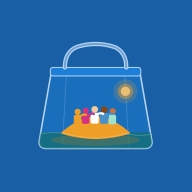
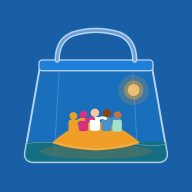
feat: otimização de velocidade Fase 2 (SW v6, splash, ícones maskable, iOS startup)
Fase 2 do OPTIMIZATION_MASTER_PLAN_V2.md (T6-T9): service worker v6 com race
rede-vs-timeout (500ms) + Navigation Preload + seed do documento raiz para
eliminar a tela branca de abertura do PWA; splash CSS recalibrado (600ms para
350ms); ícones reais regenerados com variante maskable (Android); 8 startup
images para iOS (antes abria em branco). Regras de privacidade e o ISR do
servidor permanecem intocados (RSC e rotas privadas seguem network-first).

diff --git a/frontend/public/sw.js b/frontend/public/sw.js
@@ -1,10 +1,21 @@
 // Service Worker — Mercado Ilha
-// Reescrito en la Fase 4 del plano de otimização (T12 + T13).
-// Estrategias explícitas por tipo de request, caches separados con tope, y página offline.
-// Reglas irrompibles: NUNCA interceptar Supabase (auth + datos), NUNCA cachear rutas
-// privadas (/publish, /profile, /admin) ni /api/auth. Subir CACHE_VERSION en cada cambio.
+// v5 (Fase 4 V1): estrategias por tipo de request, caches separados con tope, offline.html.
+// v6 (Fase 2 V2 · T6): la NAVEGACIÓN deja de ser network-first puro y pasa a
+//   "race red-vs-timeout": si hay copia cacheada del documento, la red fresca compite
+//   contra un timeout corto (NAV_TIMEOUT_MS). Si la red no llegó a tiempo, se sirve el
+//   caché AL INSTANTE y la red sigue en segundo plano refrescando el caché para la
+//   próxima apertura. En conexión buena gana la red (contenido fresco, sin cambios); en
+//   4G lenta la app abre al toque con la última versión vista — comportamiento
+//   Instagram/Mercado Livre. Con ISR de 60s en el server, tolerar unos segundos de stale
+//   al abrir es parte del diseño; la apertura siguiente ya trae el contenido refrescado.
+//   Además: Navigation Preload (la request parte en paralelo al boot del SW) + seed del
+//   documento '/' en install/activate (la 1ª apertura standalone ya tiene algo que pintar).
+// Reglas irrompibles (intactas): NUNCA interceptar Supabase (auth + datos), NUNCA cachear
+//   rutas privadas (/publish, /profile, /admin) ni /api/auth; los payloads RSC siguen
+//   network-first (el race aplica SOLO a documentos HTML de apertura, no a la navegación
+//   client-side, para respetar el ISR de 60s). Subir CACHE_VERSION en cada cambio.
 
-const CACHE_VERSION = 'v5';
+const CACHE_VERSION = 'v6';
 const STATIC_CACHE = `mi-static-${CACHE_VERSION}`; // shell, íconos, /_next/static (inmutable)
 const PAGES_CACHE = `mi-pages-${CACHE_VERSION}`;   // navegaciones HTML + payloads RSC
 const IMAGES_CACHE = `mi-images-${CACHE_VERSION}`; // /_next/image + fotos R2
@@ -17,6 +28,11 @@ const PAGES_LIMIT = 30;
 const IMAGES_LIMIT = 60;
 const DATA_LIMIT = 16;
 
+// Cuánto espera una navegación CON caché a que la red fresca gane antes de servir el
+// caché. Corto para que en 4G lenta abra al instante; suficiente para que en buena
+// conexión gane la red casi siempre y se sirva contenido fresco.
+const NAV_TIMEOUT_MS = 500;
+
 // Precache del shell offline: la página offline + marca. Best-effort: si un asset falla,
 // no aborta la instalación (evita que un 404 puntual deje al SW sin instalar).
 const PRECACHE = [
@@ -25,30 +41,52 @@ const PRECACHE = [
   '/logo.svg',
   '/icon-192.png',
   '/icon-512.png',
+  '/icon-maskable-192.png',
+  '/icon-maskable-512.png',
   '/apple-touch-icon.png',
 ];
 
 self.addEventListener('install', (e) => {
   e.waitUntil(
-    caches.open(STATIC_CACHE).then(async (cache) => {
+    (async () => {
+      const staticCache = await caches.open(STATIC_CACHE);
       await Promise.all(
-        PRECACHE.map((url) => cache.add(url).catch(() => {/* asset opcional ausente */}))
+        PRECACHE.map((url) => staticCache.add(url).catch(() => {/* asset opcional ausente */}))
       );
+      // Seed del documento raíz en PAGES_CACHE: la PRIMERA apertura standalone tras
+      // instalar el PWA ya tiene algo que pintar al instante (best-effort: si falla, la
+      // navegación cae al comportamiento sin caché, que espera la red).
+      const pagesCache = await caches.open(PAGES_CACHE);
+      await pagesCache.add('/').catch(() => {/* sin conexión al instalar: se sembrará al 1er visit */});
       await self.skipWaiting();
-    })
+    })()
   );
 });
 
 self.addEventListener('activate', (e) => {
   e.waitUntil(
-    caches
-      .keys()
-      .then((keys) =>
-        Promise.all(
-          keys.filter((k) => !CURRENT_CACHES.includes(k)).map((k) => caches.delete(k))
-        )
-      )
-      .then(() => self.clients.claim())
+    (async () => {
+      // Navigation Preload: al abrir, la request de navegación parte en paralelo al boot
+      // del SW → la red fresca llega antes y tiene más chances de ganar el race.
+      if (self.registration.navigationPreload) {
+        try { await self.registration.navigationPreload.enable(); } catch (err) {/* no soportado */}
+      }
+      // Borrar caches de versiones anteriores (v5 → v6 limpia mi-*-v5).
+      const keys = await caches.keys();
+      await Promise.all(
+        keys.filter((k) => !CURRENT_CACHES.includes(k)).map((k) => caches.delete(k))
+      );
+      // Refrescar el seed de '/' (el precacheado en install puede quedar viejo tras un
+      // update del SW). Best-effort: si no hay red, queda el seed de install.
+      try {
+        const res = await fetch('/');
+        if (res && res.ok) {
+          const cache = await caches.open(PAGES_CACHE);
+          await cache.put('/', res.clone());
+        }
+      } catch (err) {/* sin conexión: se refresca en la próxima apertura */}
+      await self.clients.claim();
+    })()
   );
 });
 
@@ -133,30 +171,76 @@ async function networkFirst(request, cacheName, limit, event) {
   }
 }
 
-// Navegación HTML: network-first con fallback a la página cacheada y, en última instancia,
-// a la página offline de marca.
-async function handleNavigation(request, isPrivate, event) {
-  try {
-    const res = await fetch(request);
-    if (res && res.ok && !isPrivate) {
-      const clone = res.clone();
-      event.waitUntil(
+// Red para una navegación: usa el navigation preload si está disponible (request ya
+// disparada en paralelo al boot del SW), sino un fetch normal. Al llegar una respuesta ok
+// refresca PAGES_CACHE al vuelo (fire-and-forget, mismo patrón que staleWhileRevalidate).
+// Devuelve la Response de red (o rechaza si la red falla).
+function fetchNavigation(request, event) {
+  return Promise.resolve(event.preloadResponse)
+    .then((preload) => preload || fetch(request))
+    .then((res) => {
+      if (res && res.ok) {
         caches.open(PAGES_CACHE).then((cache) =>
-          cache.put(request, clone).then(() => trimCache(PAGES_CACHE, PAGES_LIMIT))
-        )
-      );
+          cache.put(request, res.clone()).then(() => trimCache(PAGES_CACHE, PAGES_LIMIT))
+        );
+      }
+      return res;
+    });
+}
+
+// Navegación HTML (apertura de documento / refresh / deep link).
+//  - Rutas privadas: SIEMPRE red, NUNCA caché (regla irrompible). Fallback offline.
+//  - Sin caché del documento: se espera la red; si falla → offline.
+//  - Con caché: la red fresca compite contra un timeout corto. Si la red no llegó a
+//    tiempo (o falló), se sirve el caché al instante y la red sigue refrescándolo.
+async function handleNavigation(request, isPrivate, event) {
+  if (isPrivate) {
+    try {
+      const preload = await event.preloadResponse;
+      return preload || (await fetch(request));
+    } catch (err) {
+      const offline = await caches.match('/offline.html');
+      if (offline) return offline;
+      throw err;
     }
-    return res;
-  } catch (err) {
-    // Rutas privadas nunca se sirven desde caché: solo offline.
-    if (!isPrivate) {
-      const cached = await caches.match(request);
-      if (cached) return cached;
-    }
-    const offline = await caches.match('/offline.html');
-    if (offline) return offline;
-    throw err;
   }
+
+  const pagesCache = await caches.open(PAGES_CACHE);
+  const cached = await pagesCache.match(request);
+  const network = fetchNavigation(request, event);
+
+  // Sin caché: comportamiento clásico — esperar la red; si falla, página offline.
+  if (!cached) {
+    try {
+      const res = await network;
+      event.waitUntil(network.catch(() => {})); // dejar terminar la escritura del caché
+      return res;
+    } catch (err) {
+      const offline = await caches.match('/offline.html');
+      if (offline) return offline;
+      throw err;
+    }
+  }
+
+  // Con caché: race red-vs-timeout. `outcome` NUNCA rechaza (así no quedan rechazos
+  // flotando cuando gana el timeout): { res } si la red trajo algo ok, {} si falló/no-ok.
+  const outcome = network.then(
+    (res) => (res && res.ok ? { res } : {}),
+    () => ({})
+  );
+  let timeoutId;
+  const timeout = new Promise((resolve) => {
+    timeoutId = setTimeout(() => resolve('timeout'), NAV_TIMEOUT_MS);
+  });
+
+  const winner = await Promise.race([outcome, timeout]);
+  clearTimeout(timeoutId);
+  // Sea quien sea el ganador, la red sigue viva para refrescar el caché de la próxima vez.
+  event.waitUntil(outcome);
+
+  if (winner === 'timeout') return cached; // red lenta → caché al instante
+  if (winner.res) return winner.res;        // red fresca ganó → contenido fresco
+  return cached;                            // red falló/no-ok antes del timeout → caché
 }
 
 self.addEventListener('fetch', (e) => {

diff --git a/frontend/app/layout.tsx b/frontend/app/layout.tsx
@@ -57,6 +57,18 @@ export default function RootLayout({ children }: { children: React.ReactNode }) 
         <link rel="dns-prefetch" href="https://ywminblmiwjsxbntszbc.supabase.co" />
         <link rel="preconnect" href="https://pub-d6279f6f1d8b4352953818cd9e119e87.r2.dev" crossOrigin="" />
         <link rel="dns-prefetch" href="https://pub-d6279f6f1d8b4352953818cd9e119e87.r2.dev" />
+        {/* Startup images de iOS (T8 V2): iOS no usa background_color del manifest; sin
+            estos el PWA abre en blanco. Tags estáticos (cero costo de runtime); si un
+            tamaño no matchea, iOS cae al blanco actual (nunca peor). Android/desktop los
+            ignoran. PNGs generados con sharp: logo.svg centrado sobre #185FA5. */}
+        <link rel="apple-touch-startup-image" href="/splash/apple-splash-750-1334.png" media="(device-width: 375px) and (device-height: 667px) and (-webkit-device-pixel-ratio: 2) and (orientation: portrait)" />
+        <link rel="apple-touch-startup-image" href="/splash/apple-splash-1125-2436.png" media="(device-width: 375px) and (device-height: 812px) and (-webkit-device-pixel-ratio: 3) and (orientation: portrait)" />
+        <link rel="apple-touch-startup-image" href="/splash/apple-splash-828-1792.png" media="(device-width: 414px) and (device-height: 896px) and (-webkit-device-pixel-ratio: 2) and (orientation: portrait)" />
+        <link rel="apple-touch-startup-image" href="/splash/apple-splash-1242-2688.png" media="(device-width: 414px) and (device-height: 896px) and (-webkit-device-pixel-ratio: 3) and (orientation: portrait)" />
+        <link rel="apple-touch-startup-image" href="/splash/apple-splash-1170-2532.png" media="(device-width: 390px) and (device-height: 844px) and (-webkit-device-pixel-ratio: 3) and (orientation: portrait)" />
+        <link rel="apple-touch-startup-image" href="/splash/apple-splash-1284-2778.png" media="(device-width: 428px) and (device-height: 926px) and (-webkit-device-pixel-ratio: 3) and (orientation: portrait)" />
+        <link rel="apple-touch-startup-image" href="/splash/apple-splash-1179-2556.png" media="(device-width: 393px) and (device-height: 852px) and (-webkit-device-pixel-ratio: 3) and (orientation: portrait)" />
+        <link rel="apple-touch-startup-image" href="/splash/apple-splash-1290-2796.png" media="(device-width: 430px) and (device-height: 932px) and (-webkit-device-pixel-ratio: 3) and (orientation: portrait)" />
       </head>
       <body>
         <SplashScreen />

diff --git a/frontend/components/SplashScreen.tsx b/frontend/components/SplashScreen.tsx
@@ -128,10 +128,11 @@ export default function SplashScreen() {
       var done = false;
       function hide() {
         if (done) return; done = true;
-        // Mínimo de 600ms: alcanza para insinuar la animación del logo sin
-        // frenar la app cuando ya cargó rápido (cacheada). Antes eran 1100ms,
-        // que en cargas veloces agregaban ~700ms de espera artificial.
-        var wait = Math.max(0, 600 - (Date.now() - start));
+        // Mínimo de 350ms: apenas para insinuar la animación del logo sin flash.
+        // Con el SW v6 (T6) la apertura cacheada es casi instantánea, así que este
+        // retén pasó a ser el piso real de la apertura → se bajó de 600ms a 350ms
+        // (antes 1100ms) para no agregar espera artificial en cargas veloces.
+        var wait = Math.max(0, 350 - (Date.now() - start));
         setTimeout(function () {
           el.classList.add('mi-hide');
         }, wait);

diff --git a/MEMORY.md b/MEMORY.md
@@ -331,9 +331,34 @@ WhatsApp y roles a cualquier anónimo. Fix en `supabase/security-fix-profiles.sq
   - Verificado: `npm run build` (52 páginas, todas las rutas iguales a la línea de base, ninguna
     pasó a dinámica) + smoke test de `/` y `/listings` en runtime.
   - **Hallazgo nuevo detectado con Speed Insights (no estaba en la auditoría V2 original): CLS
-    0.47 (Poor) en mobile**, ver §19 — pendiente investigar, probablemente en `/store/[id]`.
-  - Próxima fase del plan (Fase 2, T6-T9: SW v6 + splash real) requiere avisar `/effort xhigh`
-    antes de tocar el Service Worker — no arrancar sin confirmar con el usuario.
+    0.47 (Poor) en mobile**, ver `ERRORES_PENDIENTES.md` — pendiente investigar, probablemente en
+    `/store/[id]`.
+  - **Fase 2 (T6-T9) EN PRODUCCIÓN** desde 2026-07-08 (commit ver §21) — la entrada de la app:
+    - `public/sw.js` → **v6**: la navegación deja de ser network-first puro. Con documento
+      cacheado, la red compite contra un timeout de 500ms (`NAV_TIMEOUT_MS`); si no llega a
+      tiempo se sirve el caché al instante y la red sigue refrescándolo de fondo
+      (`handleNavigation` + `fetchNavigation`). + Navigation Preload
+      (`registration.navigationPreload.enable()` en `activate`) + seed del documento `/` en
+      install/activate (primera apertura standalone ya tiene algo que pintar). Reglas intocables
+      preservadas: Supabase nunca interceptado, `/publish|/profile|/admin` siempre red (nunca
+      caché), RSC sigue network-first puro (el race es SOLO para documentos HTML de apertura).
+      Verificado con Chrome headless por CDP (sin agregar Playwright): versionado v5→v6 OK,
+      offline con `/` cacheada abre desde caché, ruta no visitada → `offline.html`, `/profile`
+      offline → `offline.html` (nunca caché), y con latencia simulada de 3000ms la apertura de
+      `/` resolvió en ~946ms (el race funciona).
+    - `SplashScreen.tsx`: mínimo del splash CSS 600ms → **350ms** (con el SW v6 la apertura
+      cacheada es casi instantánea; el retén viejo pasaba a ser el piso artificial).
+    - Íconos regenerados desde `Icono.svg` (nítidos): `icon-512/192.png` (variante `any`, casi a
+      sangre) + **nuevos** `icon-maskable-512/192.png` (bolsa al 62% del lienzo, zona segura
+      circular de Android) + `apple-touch-icon.png`. `manifest.json` con `purpose: "any"/"maskable"`
+      en los 4 íconos PWA. Aprobados visualmente por el usuario antes del deploy (artefacto con
+      los 13 assets a tamaño real).
+    - `app/layout.tsx`: 8 `<link rel="apple-touch-startup-image">` (PNGs en `public/splash/`,
+      logo.svg centrado sobre `#185FA5`, generados con `sharp`) cubriendo las resoluciones de
+      iPhone vigentes — antes iOS abría el PWA en blanco puro.
+  - Próxima fase del plan: **Fase 3 (T10-T11, /listings instantáneo desde cualquier entrada)** —
+    requiere `/effort xhigh` (T11 toca la arquitectura de la ruta más usada del sitio); avisar
+    explícitamente al usuario antes de arrancar.
 
 ## 14. TRACKING PRE-MONETIZACIÓN (2026-06-18, commit `57ce23d`)
 
@@ -472,8 +497,8 @@ Cron diario `app/api/cron/expire-listings/route.ts` (Vercel Cron, 10:00 UTC):
   Logo real + slot "Oferecido por" vía banners position `splash`. Código en
   `SplashScreen.tsx`/`SplashSponsorSync.tsx`. Posición `splash` habilitada en DB (`fase-splash-sponsor.sql`
   corrida 2026-07-07).
-- Íconos PWA con el logo real (reemplazar placeholders) — pasa a ser T7 de
-  `OPTIMIZATION_MASTER_PLAN_V2.md` Fase 2 (además de agregar variante `maskable`).
+- (Confirmada ✅ Íconos PWA con el logo real + variante `maskable`: T7 de
+  `OPTIMIZATION_MASTER_PLAN_V2.md` Fase 2, en producción 2026-07-08 — ver §13.)
 - Republicar anuncio vencido con 1 clic desde el perfil.
 - Filtros adicionales en listados: precio, sub-zona.
 - Panel admin: gestión de localidades y sub-zonas.
@@ -487,10 +512,10 @@ Cron diario `app/api/cron/expire-listings/route.ts` (Vercel Cron, 10:00 UTC):
   Ruta con peor score: `/store/[id]` ("Needs Improvement", 52). Pendiente: investigar qué elemento
   salta el layout (candidatos: banner rotativo, imágenes sin dimensiones reservadas, fuentes) y
   corregirlo en una fase futura del plan V2.
-- **`OPTIMIZATION_MASTER_PLAN_V2.md`:** Fase 1 (T1-T5) en producción desde 2026-07-08 — ver §13.
-  Fases 2 (T6-T9, entrada/arranque del PWA), 3 (T10-T11, /listings instantáneo), 4 (T12-T13,
-  payload) y 5 (T14, validación) siguen pendientes. Fase 2 requiere avisar `/effort xhigh` antes
-  de tocar el Service Worker.
+- **`OPTIMIZATION_MASTER_PLAN_V2.md`:** Fases 1 (T1-T5) y 2 (T6-T9) **en producción** desde
+  2026-07-08 — ver §13. Fase 3 (T10-T11, /listings instantáneo desde cualquier entrada) es la
+  próxima: requiere avisar `/effort xhigh` antes de arrancar (T11 toca la arquitectura de
+  `/listings`). Fases 4 (T12-T13, payload) y 5 (T14, validación) siguen pendientes después.
 
 ## 20. CORRER LOCALMENTE
 
@@ -509,6 +534,14 @@ habilitado en Supabase; `admin_settings.admin_whatsapp` con el número real; pri
 Registro cronológico de cierres de sesión (más reciente arriba). Detalle estructural de cada
 feature va en su sección numerada correspondiente; acá solo un resumen con fecha y commit.
 
+- **2026-07-08** — `OPTIMIZATION_MASTER_PLAN_V2.md` Fase 2 (T6-T9), **desplegado** (commit
+  pendiente de completar tras el push). SW v6 (race red-vs-timeout 500ms + Navigation Preload +
+  seed de `/`) para eliminar la pantalla blanca de apertura; splash CSS 600→350ms; íconos reales
+  regenerados + variantes `maskable` nuevas (Android); 8 startup images para iOS (antes abría en
+  blanco). Verificado con Chrome headless por CDP (sin agregar dependencias): versionado v5→v6,
+  matriz offline completa, y race probado con latencia simulada de 3000ms (abrió en ~946ms).
+  Assets de marca aprobados visualmente por el usuario antes del deploy. Próximo: Fase 3
+  (T10-T11) — avisar `/effort xhigh` antes de arrancar (T11 toca la arquitectura de `/listings`).
 - **2026-07-08** — `OPTIMIZATION_MASTER_PLAN_V2.md` Fase 1 (T1-T5), **desplegado** (commit
   `d647c96`, push a `main`). `minimumCacheTTL` 31 días en imágenes; prewarm del
   listado default de `/listings` desde el home (`lib/listingsApi.ts` nuevo); detalle reutiliza

diff --git a/ERRORES_PENDIENTES.md b/ERRORES_PENDIENTES.md
@@ -1,0 +1,40 @@
+# Errores pendientes — Mercado Ilha
+
+> Lista corta de problemas detectados pero **no resueltos todavía**. No son
+> tareas planificadas (esas viven en `OPTIMIZATION_MASTER_PLAN_V2.md` o en
+> `MEMORY.md §19`) — son *hallazgos sueltos* que quedaron anotados para no
+> perderlos. Regla: si en el camino de otra tarea aparece la oportunidad de
+> arreglar uno de estos, mencionarlo o resolverlo de paso; si no, esperar a
+> que el usuario pregunte por esta lista.
+
+---
+
+## 1. CLS 0.47 (Poor) en mobile
+
+- **Detectado:** 2026-07-08, Vercel Speed Insights (Mobile, últimas 24h), ANTES
+  del deploy de la Fase 1 de `OPTIMIZATION_MASTER_PLAN_V2.md`.
+- **Dato:** Cumulative Layout Shift = 0.47 (umbral "Poor" es >0.25; "Good" es <0.1).
+  Real Experience Score general: 75 (Needs Improvement).
+- **Ruta más señalada:** `/store/[id]` en "Needs Improvement" (score 52) — la única
+  ruta con datos suficientes en la ventana de 24h además de `/` (que salió "Great").
+- **Sospechosos, sin confirmar todavía:**
+  - `BannerRotativo.tsx` — si el banner reserva su alto recién cuando carga la imagen,
+    empuja el contenido de abajo al aparecer.
+  - Imágenes (`next/image`) sin `width`/`height`/`aspect-ratio` reservado en algún
+    punto de `/store/[id]` (galería de fotos del vendedor, avatar).
+  - Fuentes o iconos que cambian de tamaño tras la hidratación.
+- **Qué falta para resolverlo:** reproducir con Chrome DevTools → Performance
+  (o Lighthouse local) en `/store/[id]`, ver qué elemento específico dispara el
+  shift, y fijar sus dimensiones/reservar el espacio antes de que cargue.
+- **No se tocó todavía** — no formaba parte de la Fase 1 recién desplegada.
+
+---
+
+## Cómo se usa este archivo
+
+- Al cerrar cada sesión de trabajo (vía `/memory`), revisar si algo nuevo detectado
+  merece agregarse acá.
+- Al arrancar una tarea que toque un archivo/ruta mencionado en esta lista, chequear
+  primero si aplica una solución de paso.
+- Cuando un ítem se resuelve: mover el resumen a `MEMORY.md §18 BUGS RESUELTOS` (con
+  causa raíz + fix + commit) y borrarlo de acá.
